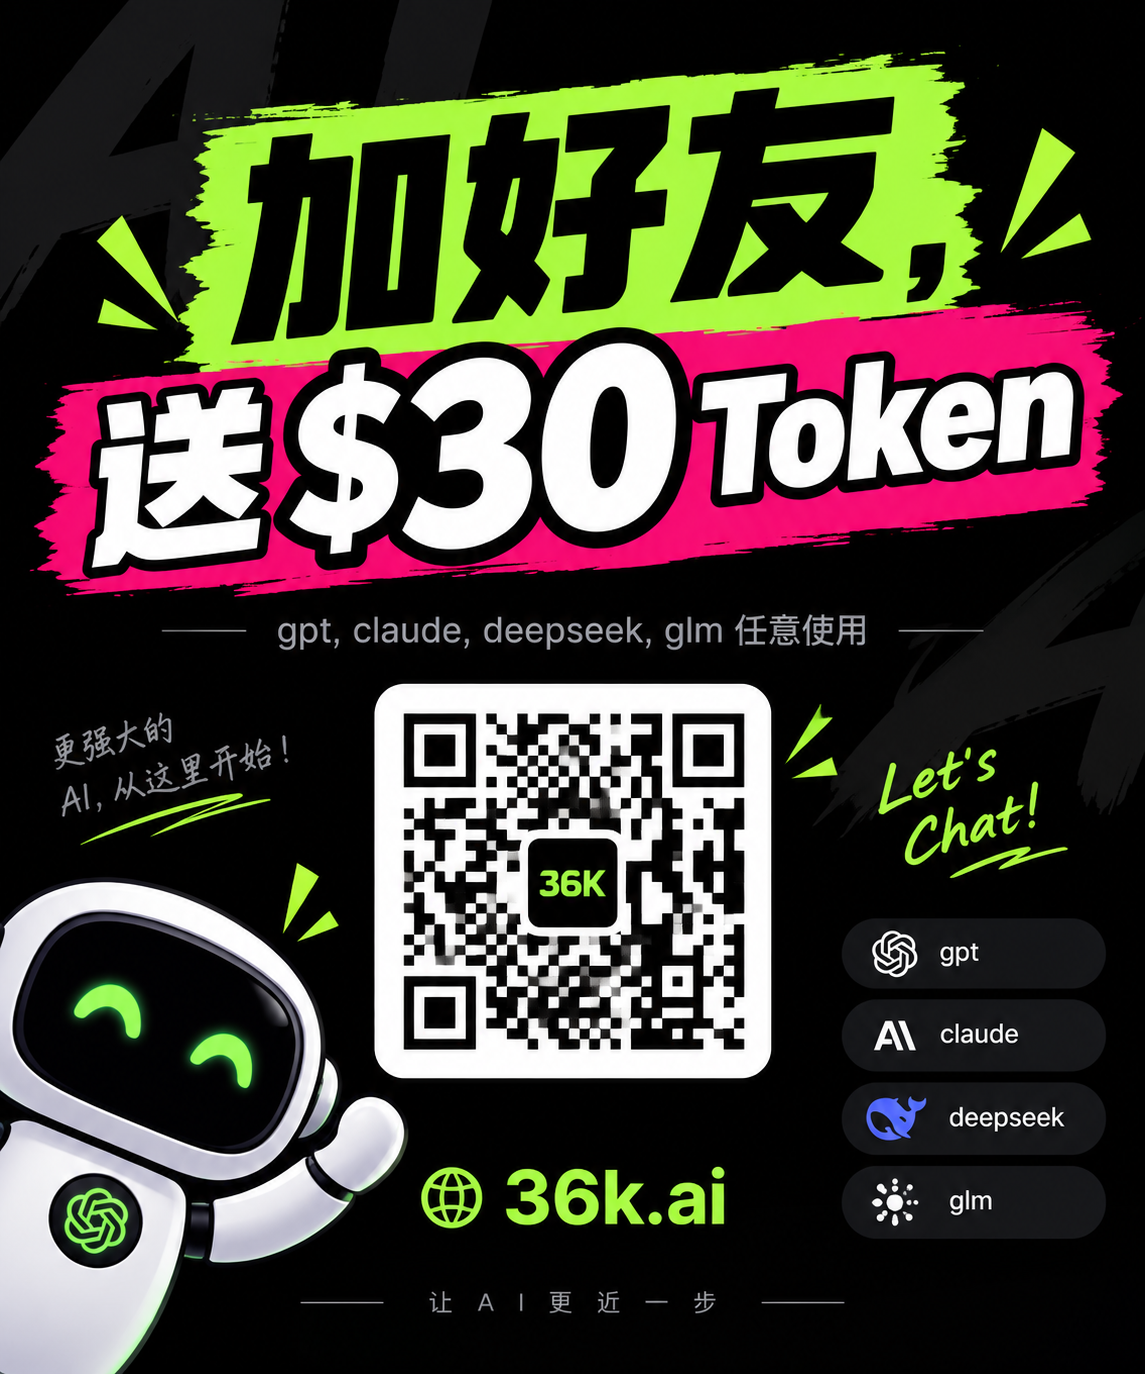
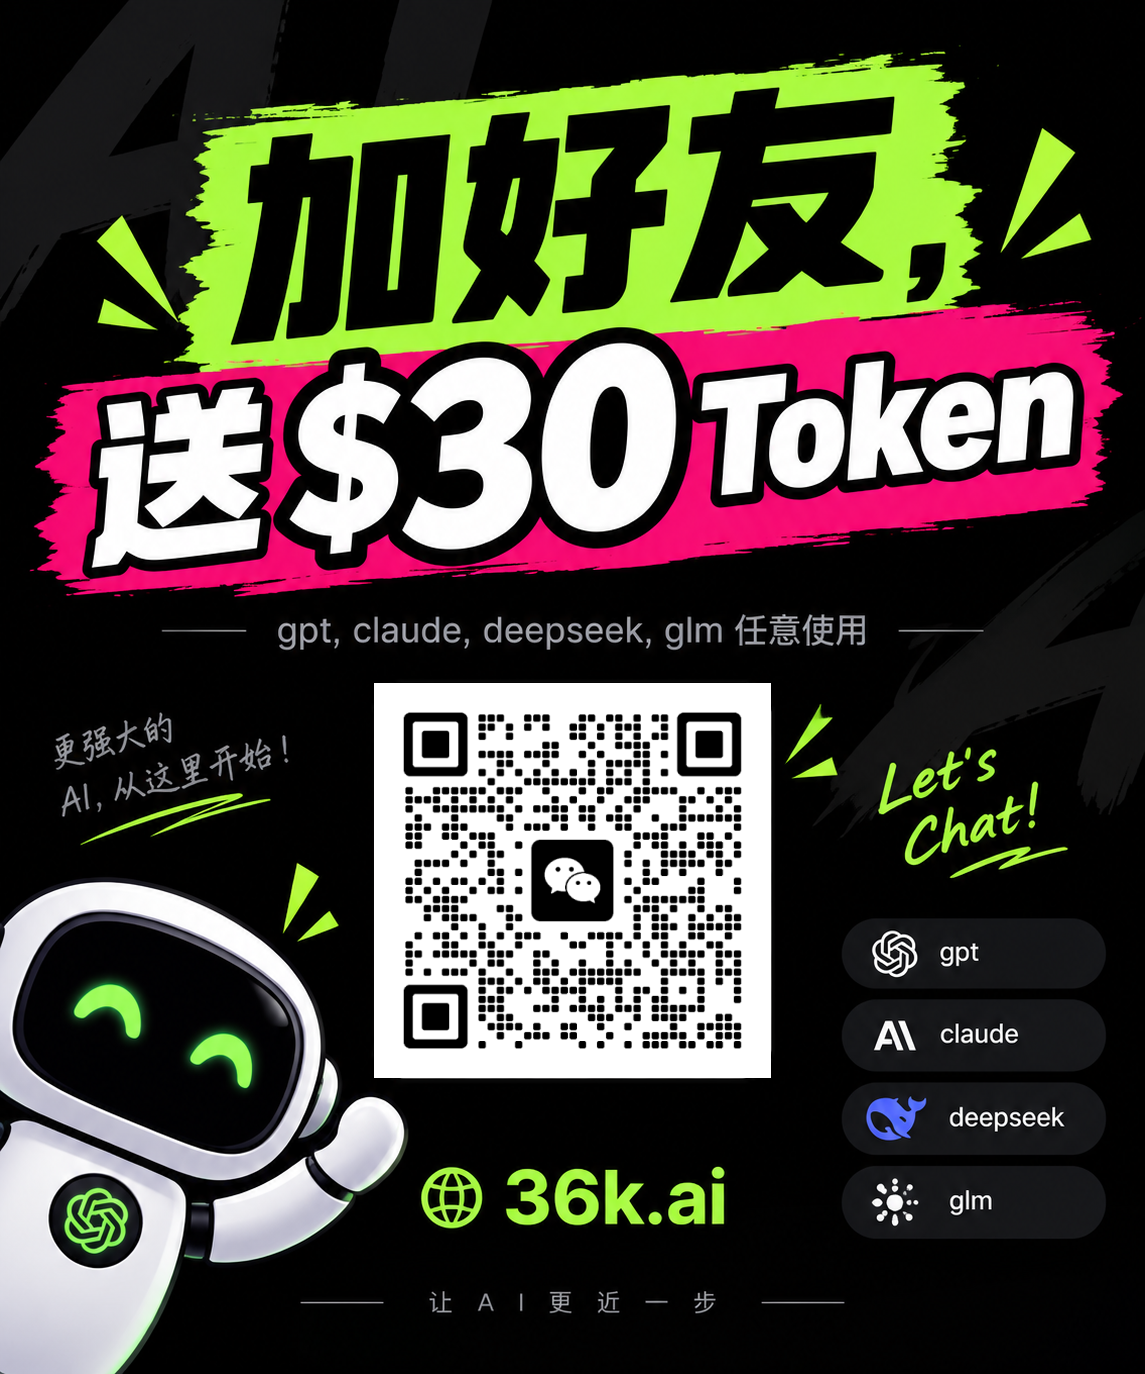
feat: 移除所有鼠标悬停提示(title属性)，海报原图同步替换可扫二维码

Changed region(s): [[0.3362, 0.4891, 0.6725, 0.7948], [0.3057, 0.7642, 0.3362, 0.7948], [0.3057, 0.4891, 0.3362, 0.5197]]

diff --git a/components/roadshow/RoadshowPage.tsx b/components/roadshow/RoadshowPage.tsx
@@ -59,7 +59,6 @@ export default function RoadshowPage() {
     <div
       className={`roadshow-container ${isFullscreen ? 'is-fullscreen' : ''} view-${viewMode}`}
       onDoubleClick={toggleFullscreen}
-      title="双击或按 F 键切换全屏"
     >
       {/* 顶部控制栏（平时完全隐藏，只有 hover 到右上角区域时才显现） */}
       <nav
@@ -74,7 +73,6 @@ export default function RoadshowPage() {
           type="button"
           className="roadshow-btn"
           onClick={() => setViewMode((m) => (m === 'interactive' ? 'poster' : 'interactive'))}
-          title="切换互动大屏 / 原版海报视图 (快捷键 P)"
         >
           <span className="btn-icon">🔄</span>
           <span className="btn-text">
@@ -86,7 +84,6 @@ export default function RoadshowPage() {
           type="button"
           className="roadshow-btn roadshow-btn--primary"
           onClick={toggleFullscreen}
-          title="全屏显示 (快捷键 F / 双击屏幕)"
         >
           <span className="btn-icon">{isFullscreen ? '🗗' : '⛶'}</span>
           <span className="btn-text">{isFullscreen ? '退出全屏' : '全屏展示 (F)'}</span>
@@ -95,7 +92,6 @@ export default function RoadshowPage() {
         <a
           href={withBase('/')}
           className="roadshow-btn roadshow-btn--home"
-          title="返回主页"
         >
           <span>首页</span>
         </a>
@@ -140,7 +136,7 @@ export default function RoadshowPage() {
               </div>
             </section>
 
-            {/* 二维码展示区：静态超高对比度，方便现场秒扫 */}
+            {/* 二维码展示区：静态超高对比度，秒扫 */}
             <section className="roadshow-right">
               <div className="qr-hero-card">
                 {/* 四角高科技对焦框 */}
